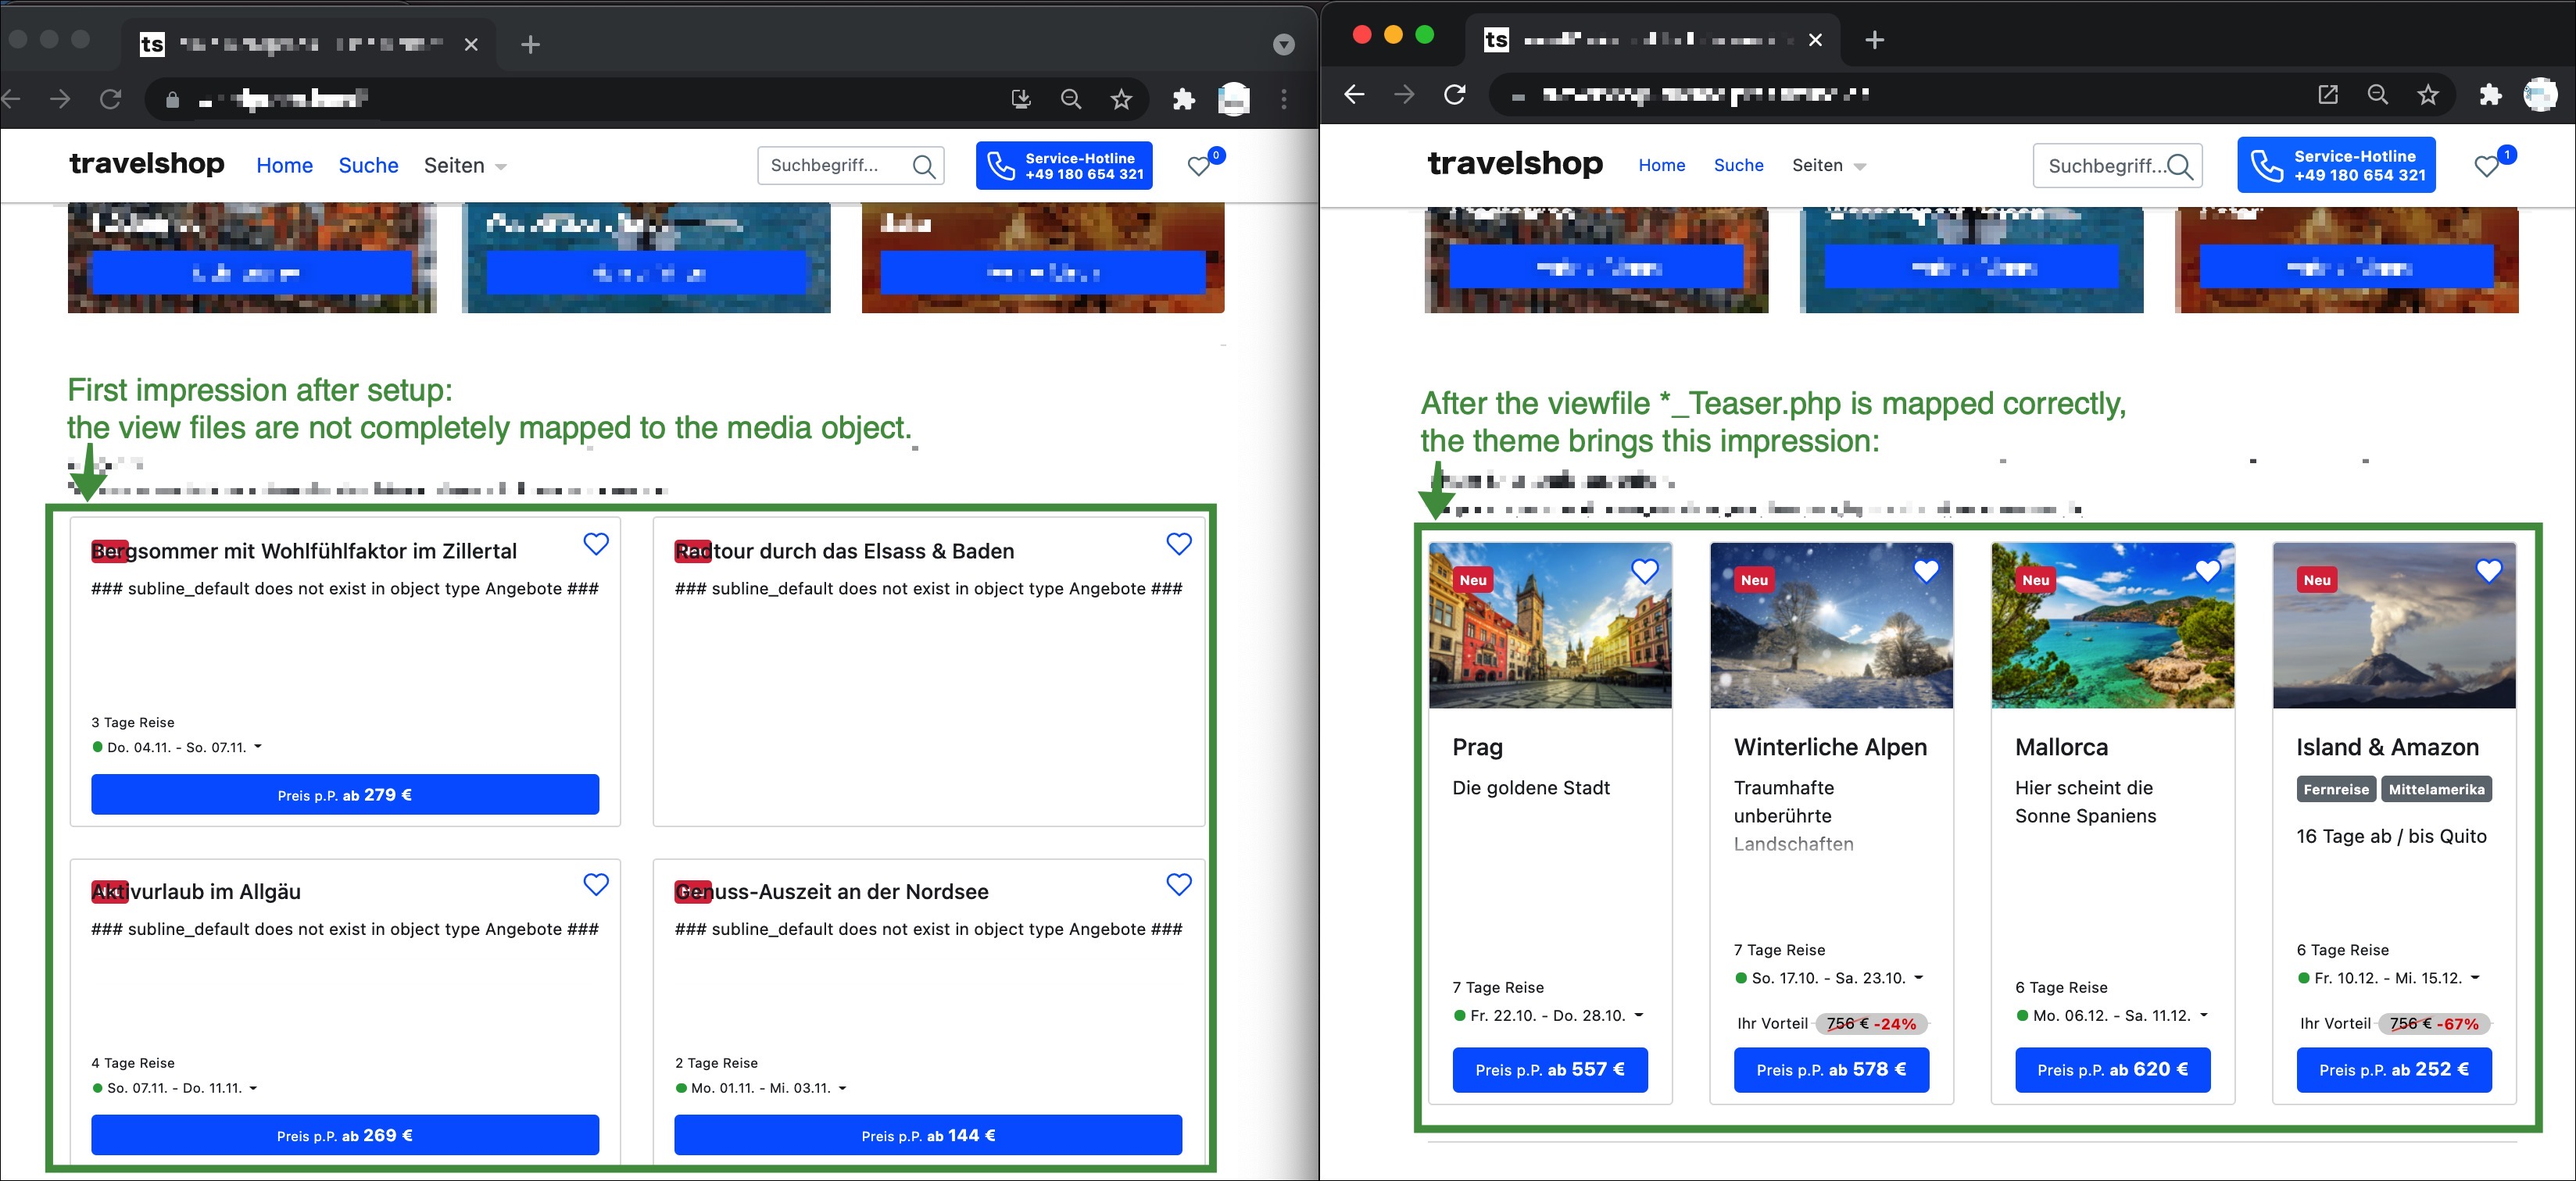
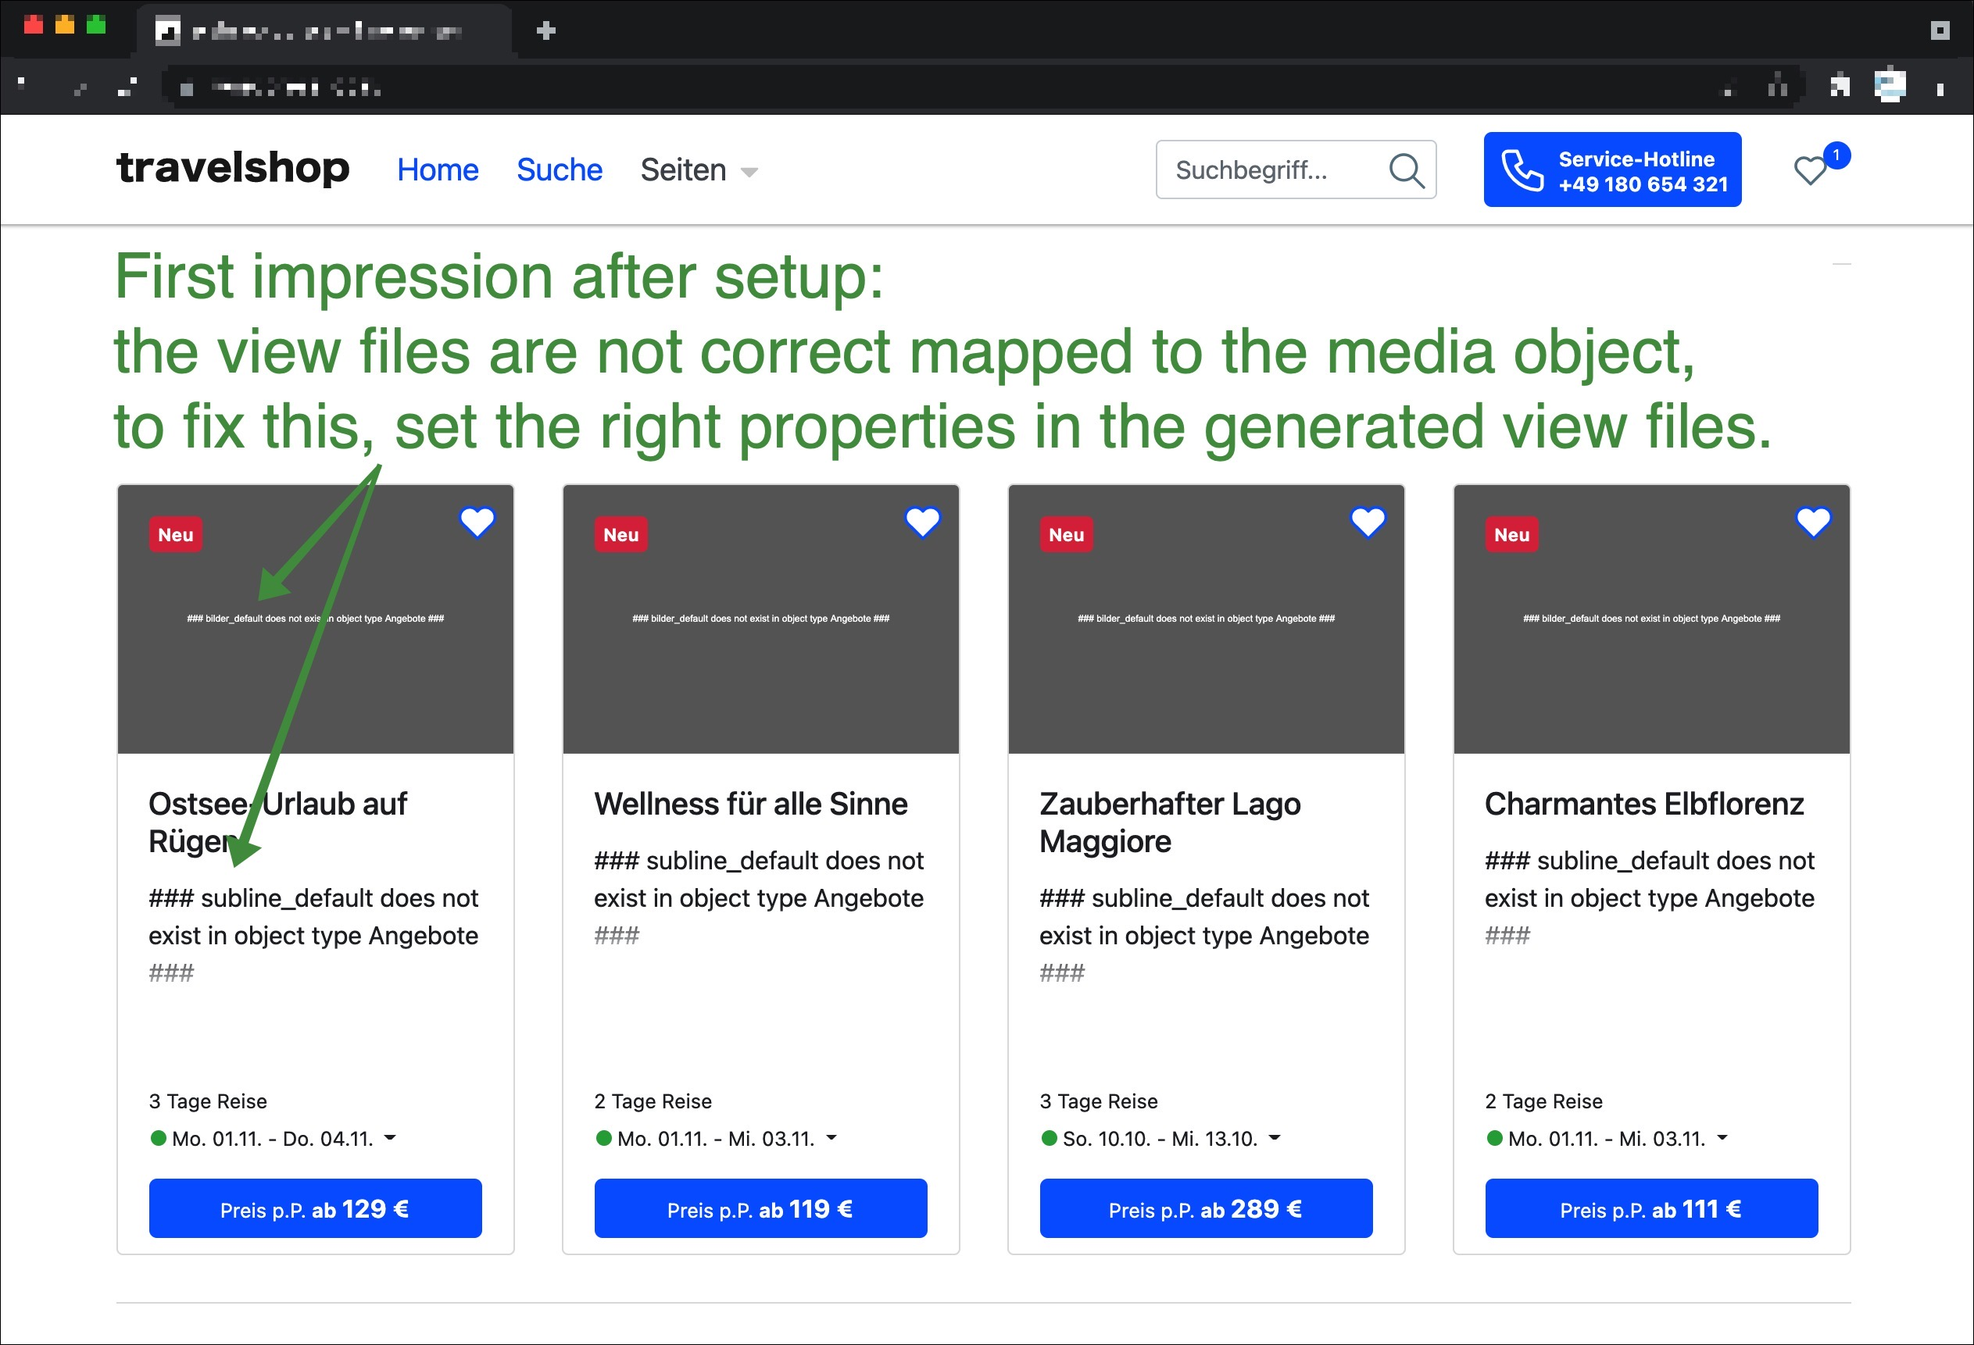
optimized view file onboarding

diff --git a/travelshop/assets/img/placeholder.svg.php b/travelshop/assets/img/placeholder.svg.php
@@ -1,0 +1,19 @@
+<?php
+// Usage: <img src="placeholder-svg.php?wh=400x400&fill=bada55&color=000000&font=Georgia&size=20&text=missing%20picture" />
+$wh = explode('x', $_GET['wh']);
+$wh[0] = (int)$wh[0];
+$wh[1] = (int)$wh[1];
+$fill = isset($_GET['fill']) ? $_GET['fill']: '666666';
+$color = isset($_GET['color']) ? $_GET['color']: 'FFFFFF';
+$size = isset($_GET['size']) ? (int)$_GET['size']: 6;
+$fontfamily = isset($_GET['font']) ? $_GET['font']: 'Arial';
+$text = isset($_GET['text']) ? urldecode($_GET['text']) : $wh[0].'x'.$wh[1];
+header('Content-Type: image/svg+xml');
+?>
+<svg viewBox="0 0 <?php echo $wh[0] ?> <?php echo $wh[1] ?>" xmlns="http://www.w3.org/2000/svg">
+    <g>
+        <title>placeholder</title>
+        <rect id="svg_1" width="<?php echo $wh[0] ?>" height="<?php echo $wh[1] ?>" y="0" x="0" fill="#<?php echo $fill ?>"/>
+        <text x="50%" y="50%" text-anchor="middle" alignment-baseline="middle" font-size="<?php echo $size ?>" dominant-baseline="middle" font-family="<?php echo $fontfamily ?>" fill="#<?php echo $color ?>"><?php echo $text; ?></text>
+    </g>
+</svg>
